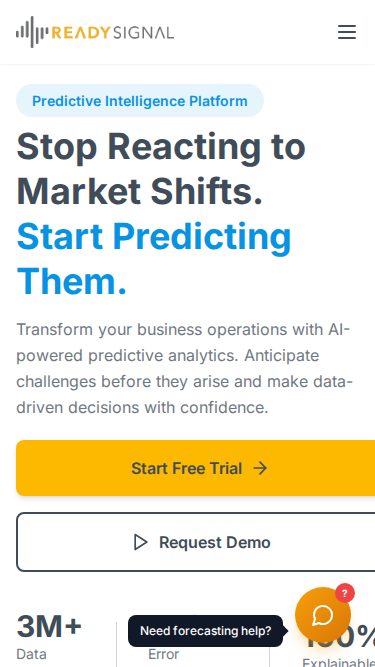
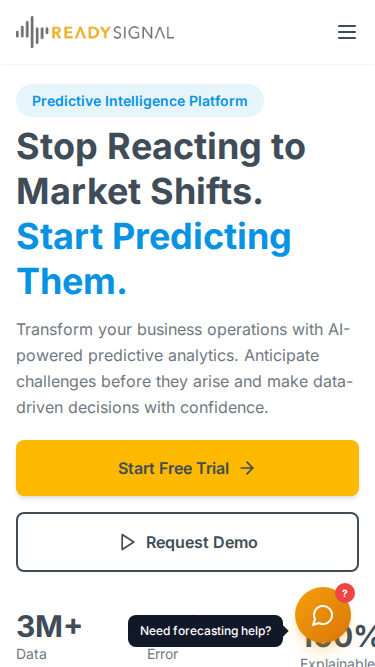
Contain mobile trial CTA within viewport

diff --git a/test-evidence/home-cta.spec.ts b/test-evidence/home-cta.spec.ts
@@ -47,6 +47,8 @@ test('hero CTA is above the fold and tappable on mobile', async ({ page }) => {
   const heroCta = page.locator('#hero-start-free-trial');
   const box = await heroCta.boundingBox();
   expect(box).not.toBeNull();
+  expect(box!.x).toBeGreaterThanOrEqual(0);
+  expect(box!.x + box!.width).toBeLessThanOrEqual(375);
   expect(box!.y).toBeGreaterThanOrEqual(0);
   expect(box!.y + box!.height).toBeLessThanOrEqual(667);
   expect(box!.width).toBeGreaterThanOrEqual(44);

diff --git a/src/components/HeroSection.tsx b/src/components/HeroSection.tsx
@@ -11,7 +11,7 @@ const HeroSection = () => {
             initial={{ opacity: 0, x: -30 }}
             animate={{ opacity: 1, x: 0 }}
             transition={{ duration: 0.8 }}
-            className="space-y-5 sm:space-y-8"
+            className="min-w-0 space-y-5 sm:space-y-8"
           >
             <div className="space-y-3 sm:space-y-4">
               <motion.div
